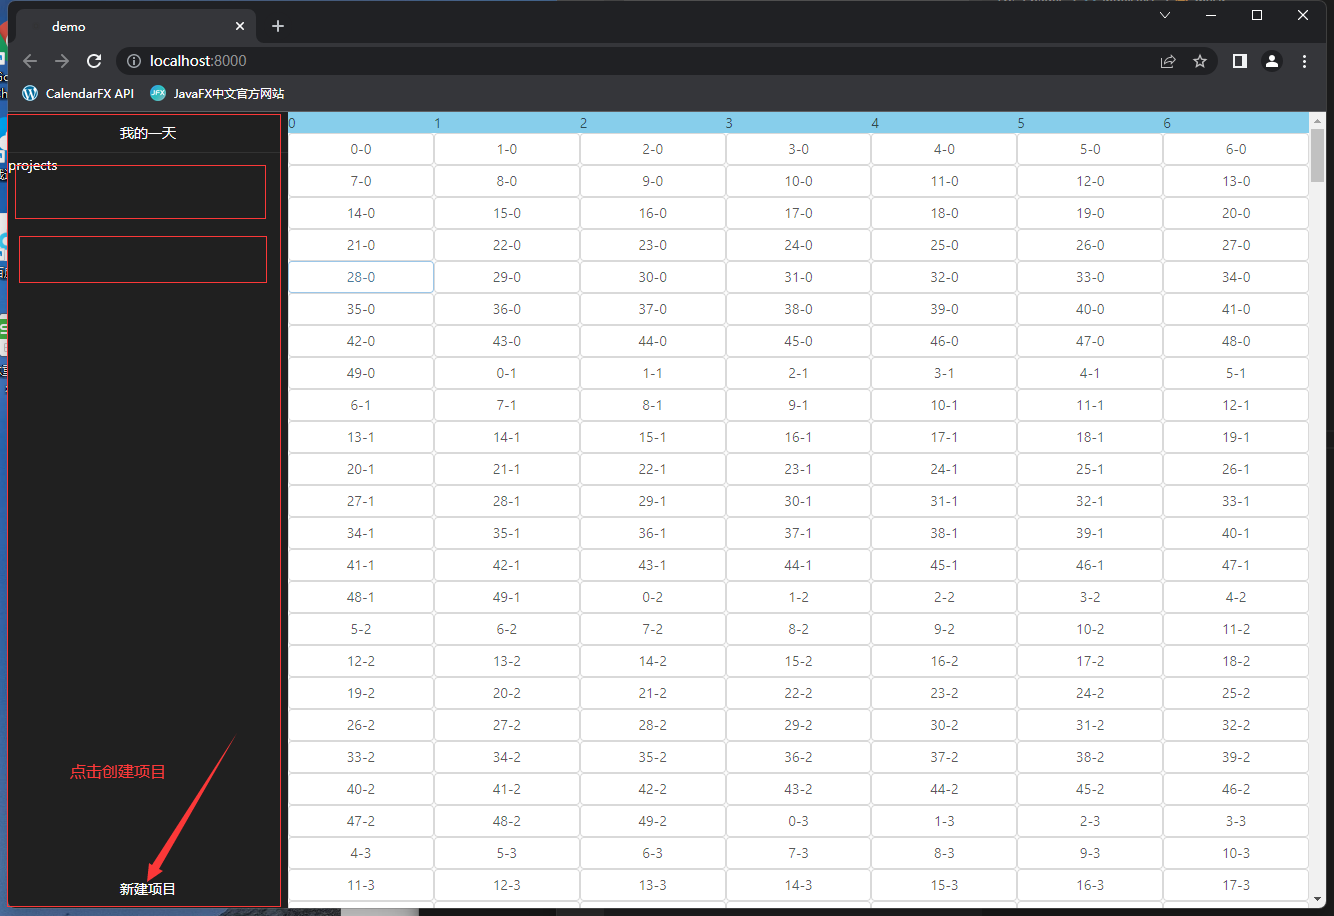
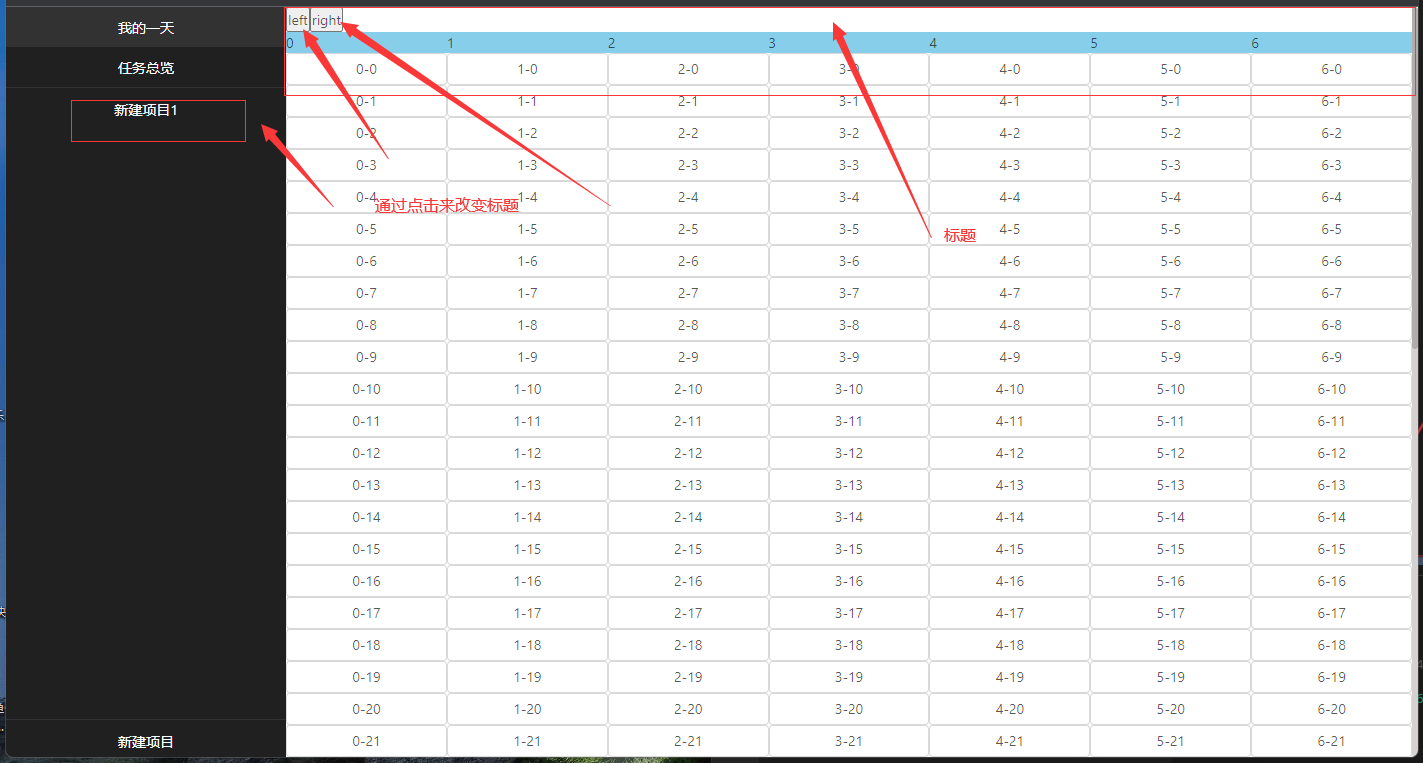
update

diff --git a/src/pages/index.tsx b/src/pages/index.tsx
@@ -1,6 +1,5 @@
 import Body from '@/components/Body';
 import Header from '@/components/Header';
-import Node from '@/components/Node';
 import React, { useState } from 'react';
 import { Model, Project } from '../models/model';
 import styles from './index.less';
@@ -16,11 +15,10 @@ export default function () {
     project.color = "skyblue"
     project.start = model.current
     project.end = model.current
-    project.goal = "新建项目01"
+    project.goal = "新建项目" + (model.projects.length + 1)
     model.projects = [...model.projects, project]
     setModel({ ...model })
   }
-
 
   return (
     <section style={{
@@ -33,11 +31,12 @@ export default function () {
             <div className={styles.myButton}>
               我的一天
             </div>
+            <div className={styles.myButton}>
+              任务总览
+            </div>
           </div>
           <hr className={styles.myHr} />
-          <div
-            className={styles.scrollPane}
-          >
+          <div className={styles.scrollPane}>
             {model.projects?.map((project, index) => {
               return <div className={styles.myButton} key={index}>{project.goal}</div>
             })}
@@ -50,10 +49,7 @@ export default function () {
           </div>
         </div>
       </div>
-      <div style={{
-        overflowY: "auto",
-        height: '100vh'
-      }}>
+      <div className={styles.bodyScrollPane}>
         <Header model={model} />
         <Body model={model} />
       </div>

diff --git a/src/components/Header/index.tsx b/src/components/Header/index.tsx
@@ -1,0 +1,36 @@
+import { Model } from "@/models/model";
+import React, { CSSProperties, FunctionComponent } from "react";
+import styles from './index.less'
+
+interface HeaderProps {
+    model: Model
+}
+
+const Header: FunctionComponent<HeaderProps> = (props) => {
+    const model = props.model
+
+    const cssStyle: CSSProperties = {
+        display: 'grid',
+        gridTemplateColumns: `repeat(${model.cols}, 1fr)`,
+        backgroundColor: "skyblue"
+    }
+
+    return (
+        <div className={styles.header}>
+            <div>
+                <button>left</button><button>right</button><div>{model.projectIndex ? model.projects[model.projectIndex] : ""}</div>
+            </div>
+            <div style={cssStyle}>
+                {
+                    [...new Array(model.cols).keys()].map((v) => {
+                        return <div key={v}>
+                            {v}
+                        </div>
+                    })
+                }
+            </div >
+        </div>
+    );
+}
+
+export default Header;

diff --git a/src/components/Body/index.tsx b/src/components/Body/index.tsx
@@ -1,7 +1,6 @@
 import { Model } from "@/models/model";
-import React from "react";
-import { FunctionComponent } from "react";
-import Node from './Node'
+import React, { FunctionComponent } from "react";
+import Node from '../Node';
 
 interface BodyProps {
     model: Model
@@ -10,10 +9,12 @@ interface BodyProps {
 const Body: FunctionComponent<BodyProps> = (props) => {
     const model = props.model;
 
-    return (<div style={{
-        display: 'grid',
-        gridTemplateColumns: `repeat(${model.cols}, 1fr)`
-    }}>
+    return (<div
+        style={{
+            display: 'grid',
+            gridTemplateColumns: `repeat(${model.cols}, 1fr)`
+        }}
+    >
         {
             [...new Array(model.rows).keys()].map((v1) => {
                 return [...new Array(model.cols).keys()].map(v2 => {

diff --git a/src/pages/index.less b/src/pages/index.less
@@ -13,6 +13,7 @@
   height: 40px;
   background: #202020;
   cursor: default;
+  user-select: none;
 }
 
 .myButton:hover {
@@ -25,8 +26,14 @@
   border-top: 1px solid #323232;
 }
 
-// 任务列表滚动条
+// 任务列表滚动面板
 .scrollPane {
   overflow-y: auto;
-  height: calc(100vh - 80px);
+  height: calc(100vh - 120px);
+}
+
+// 任务详情列表滚动面板
+.bodyScrollPane {
+  overflow-y: auto;
+  height: 100vh;
 }

diff --git a/src/models/model.ts b/src/models/model.ts
@@ -35,4 +35,8 @@ export class Model {
      */
     rows: number = 50
     projects: Project[] = []
+    /**
+     * 项目索引,默认为null
+     */
+    projectIndex: number | null = null
 }

diff --git a/src/components/Header/index.less b/src/components/Header/index.less
@@ -1,0 +1,6 @@
+.header{
+    position: sticky;
+    top: 0;
+    background-color: white;
+    z-index: 99;
+}
